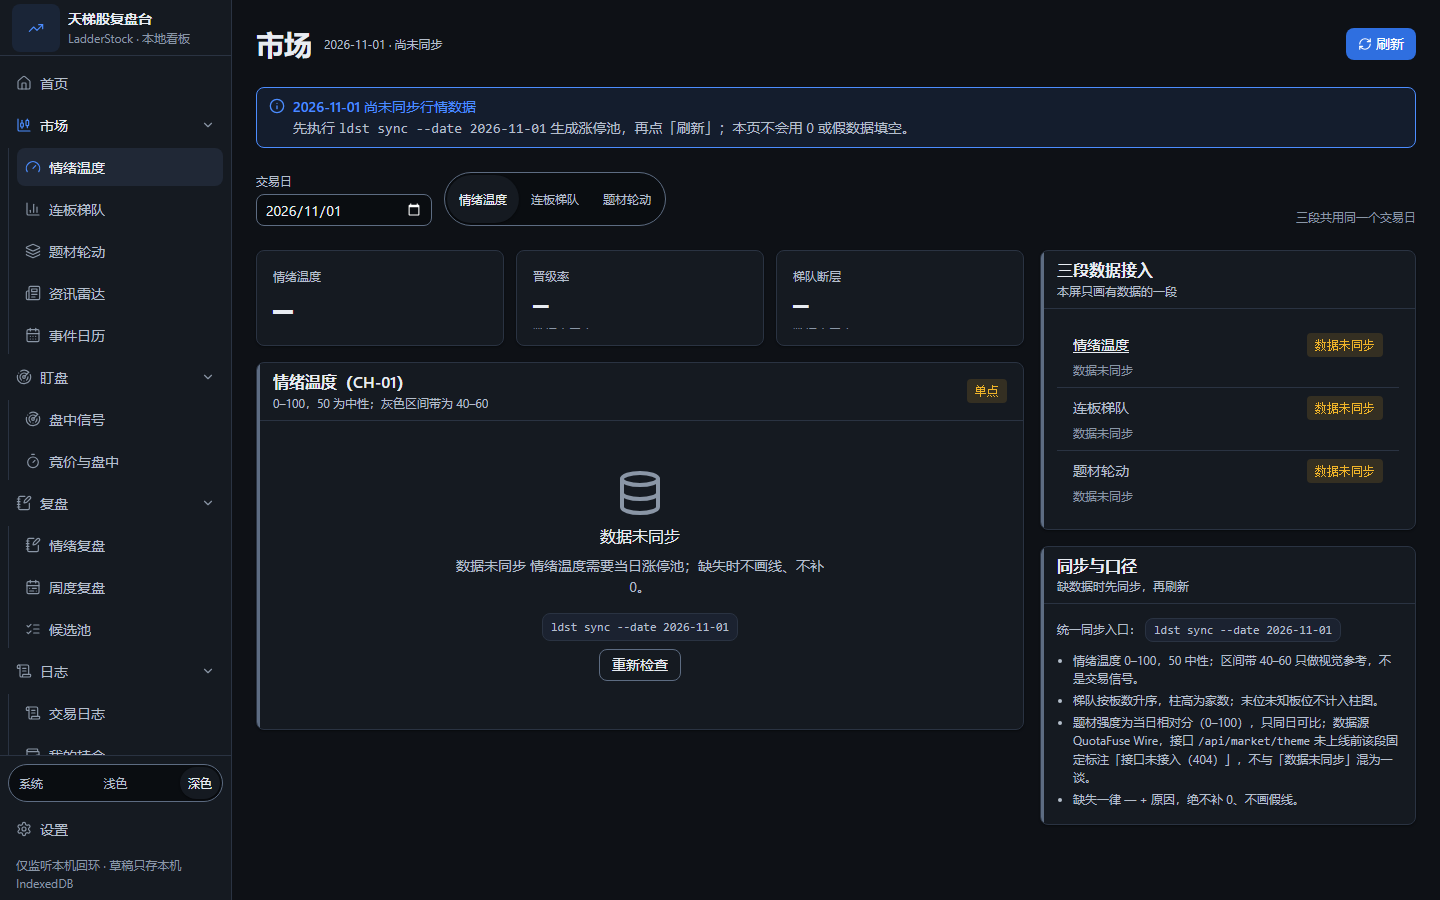
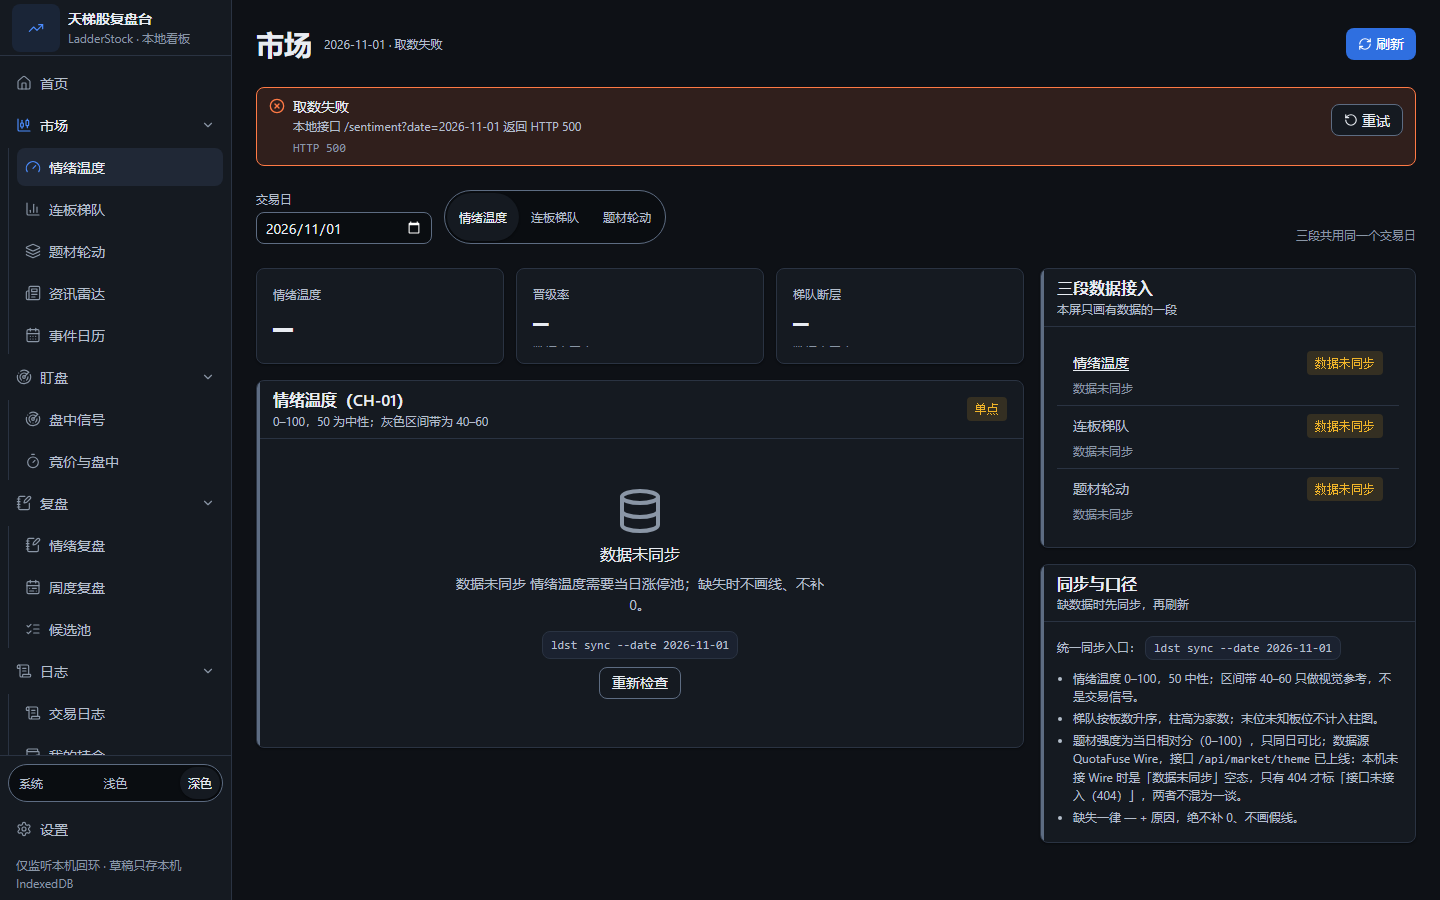
ui(settings): 配置抽屉键名改中文标签，后端 key 退到 hint（QUOT-314 / §11.0）
已知 18 个 peer 配置键给中文名，未知键原样保留不藏内容；market 口径改正后重拍两张 after。

diff --git a/frontend/src/screens/SettingsScreen.tsx b/frontend/src/screens/SettingsScreen.tsx
@@ -605,6 +605,32 @@ function LogsDrawer({ peer, onClose }: { peer: PeerSnapshot | null; onClose: () 
   )
 }
 
+/** §11.0「后端 key 不直显」：已知配置键给中文名，未知键原样保留（不藏内容），键名退到 hint。 */
+const CONFIG_KEY_LABEL: Record<string, string> = {
+  MCP_HTTP_PORT: 'MCP HTTP 端口',
+  ADMIN_PORT: '管理端端口',
+  ADMIN_HTTP_PORT: '管理端 HTTP 端口（预留）',
+  TICKHUB_CN_LOG_LEVEL: '日志级别（当前不生效）',
+  TICKHUB_US_ALLOW_TIER_B_SOURCES: '允许 B 级数据源',
+  SEC_CONTACT: '安全联系方式',
+  POLYGON_API_KEY: 'Polygon API Key',
+  QF_WIRE_HOST: '监听地址',
+  QF_WIRE_PORT: 'HTTP 端口',
+  QF_WIRE_MCP_PORT: 'MCP 端口',
+  QF_WIRE_DIGEST_PROVIDER: '摘要提供方',
+  QF_WIRE_API_BASE: 'API Base URL',
+  QF_WIRE_DIGEST_MODEL: '摘要模型',
+  QF_WIRE_API_KEY: 'Wire API Key',
+  llm_provider: 'LLM 提供方',
+  deep_think_llm: '深度思考模型',
+  quick_think_llm: '快速思考模型',
+  MINIMAX_API_KEY: 'MiniMax API Key',
+}
+
+function configKeyLabel(key: string): string {
+  return CONFIG_KEY_LABEL[key] ?? key
+}
+
 function ConfigDrawer({
   peer,
   onClose,
@@ -715,9 +741,9 @@ function ConfigDrawer({
               return (
                 <div key={key} className="flex flex-col gap-2 rounded border border-border p-2">
                   <Field
-                    label={key}
+                    label={configKeyLabel(key)}
                     htmlFor={`cfg-${key}`}
-                    hint={`密钥只写不读回 · 当前 ${entry.set ? entry.preview ?? '已配置' : '未配置'} · 留空表示不修改`}
+                    hint={`密钥只写不读回 · 配置键 ${key} · 当前 ${entry.set ? entry.preview ?? '已配置' : '未配置'} · 留空表示不修改`}
                   >
                     <Input
                       id={`cfg-${key}`}
@@ -737,7 +763,7 @@ function ConfigDrawer({
               )
             }
             return (
-              <Field key={key} label={key} htmlFor={`cfg-${key}`} hint={`当前值 ${entry.value ?? MISSING}（可覆盖）`}>
+              <Field key={key} label={configKeyLabel(key)} htmlFor={`cfg-${key}`} hint={`配置键 ${key} · 当前值 ${entry.value ?? MISSING}（可覆盖）`}>
                 <Input
                   id={`cfg-${key}`}
                   spellCheck={false}
